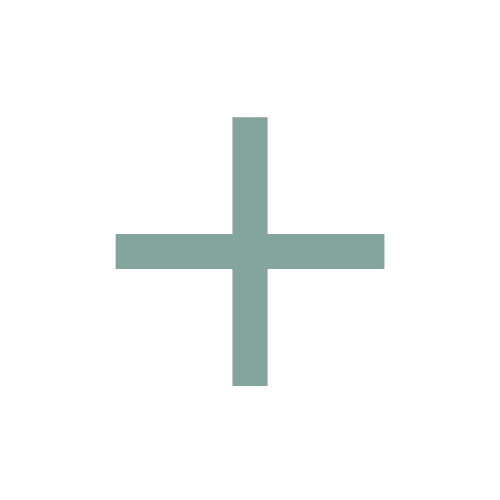
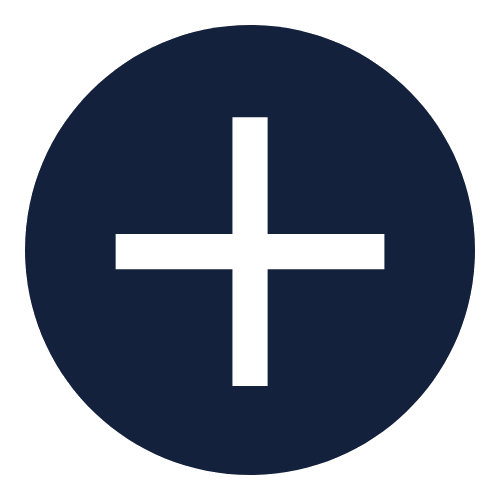
Component 2- Home Screen: Changed the colour scheme of the home screen.

diff --git a/app.py b/app.py
@@ -20,7 +20,7 @@ class App():
         image_settings=Image.open("images/Settings.png")
         settings_icon=ImageTk.PhotoImage(image_settings.resize((25,25)))
         image_help=Image.open("images/Help.png")
-        help_icon=ImageTk.PhotoImage(image_help.resize((40,40))) 
+        help_icon=ImageTk.PhotoImage(image_help.resize((45,45))) 
         image_add=Image.open("images/Add.png")
         add_icon=ImageTk.PhotoImage(image_add.resize((50,50)))
         image_exit=Image.open("images/Exit.png")
@@ -39,7 +39,8 @@ class App():
         self.home_label=Label(self.home_frame,
                               text="Home", 
                               font=app_font, 
-                              background=main_bg_standard)
+                              background=main_bg_standard,
+                              fg=text_colour)
         self.home_label.pack()
         
         #ProgressBar
@@ -52,12 +53,13 @@ class App():
                                              width=w_width-100,
                                              height=15,
                                              fg_color=help_bg_standard,
-                                             progress_color="#84A59D",
-                                             border_color="#D9D9D9",
-                                             border_width=1)
+                                             progress_color=taskbar_bg_standard)
         self.progress_bar.place(relx=0.5, rely=0.5, anchor=tk.CENTER)
         self.progress_bar.set(0)
-        self.progress=Label(self.home_frame, text="", font=("Josefin Sans", 45), background=main_bg_standard)
+        self.progress=Label(self.home_frame, text="", 
+                            font=("Josefin Sans semibold", 60), 
+                            background=main_bg_standard,
+                            fg=text_colour)
         self.progress.place(relx=0.5, rely=0.3, anchor=tk.CENTER)
         self.test_button=Button(self.home_frame, text="Click Me", command=clicker)
         self.test_button.place(relx=0.5, rely=0.55, anchor=tk.CENTER)
@@ -70,11 +72,10 @@ class App():
                                height=3,
                                bg=main_bg_standard,
                                bd=0,
-                               foreground="#464646",
+                               foreground=text_colour,
                                highlightthickness=0,
                                selectbackground=main_bg_standard,
-                               selectforeground="#84A59D"
-                               )
+                               selectforeground=taskbar_bg_standard)
         self.task_list.pack()
         self.tasks=["Task 1", "Task 2", "Task 3", "Task 4", "Task 5"]
         #Dummy list in listbox.
@@ -189,7 +190,7 @@ class App():
         self.help_button_1=Button(self.home_frame, 
                                   image=help_icon, 
                                   background=main_bg_standard, 
-                                  width=40, height=40, 
+                                  width=45, height=45, 
                                   highlightthickness=0, 
                                   bd=0, border=0, 
                                   activebackground=main_bg_standard,
@@ -199,7 +200,7 @@ class App():
         self.help_button_2=Button(self.stats_frame, 
                                   image=help_icon, 
                                   background=main_bg_standard, 
-                                  width=40, height=40, 
+                                  width=45, height=45, 
                                   highlightthickness=0, 
                                   bd=0, border=0, 
                                   activebackground=main_bg_standard,
@@ -209,7 +210,7 @@ class App():
         self.help_button_3=Button(self.settings_frame, 
                                   image=help_icon, 
                                   background=main_bg_standard, 
-                                  width=40, height=40, 
+                                  width=45, height=45, 
                                   highlightthickness=0, 
                                   bd=0, border=0, 
                                   activebackground=main_bg_standard,

diff --git a/app_settings.py b/app_settings.py
@@ -1,5 +1,6 @@
 w_width= 360
 w_height= 675
-main_bg_standard="#F7EDE2"
-taskbar_bg_standard="#F6BD60"
+main_bg_standard="#FFFFFF"
+taskbar_bg_standard="#FCA311"
 help_bg_standard="#F4F4F8"
+text_colour="#14213D"
